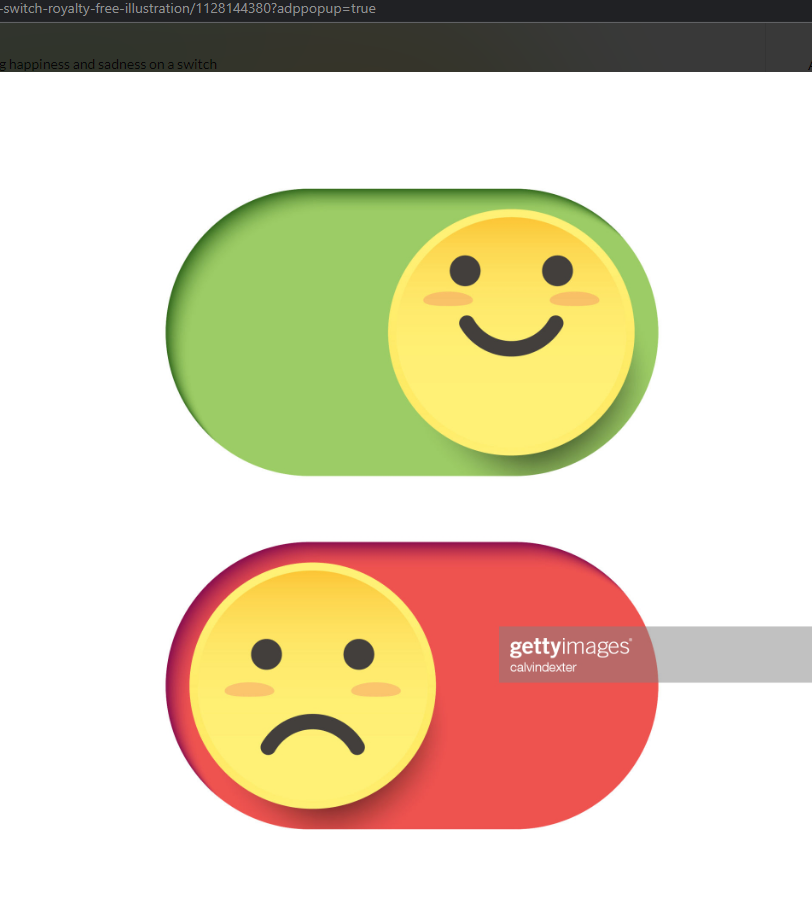
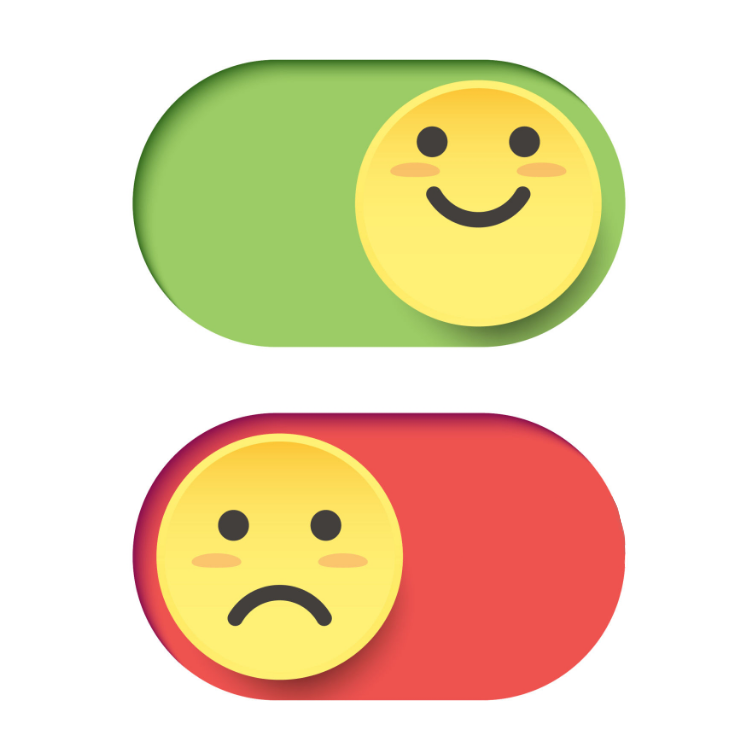
Add new project & images

diff --git a/index.html b/index.html
@@ -124,7 +124,7 @@
                 <h3>Applied Science Research Assistant</h3>
                 <h4><a href="https://www.fgdc.gov/">Federal Geographic Data Committee</h4></a>
                 <p>
-                    I conduct research and development using Python and ArcGIS to support FGDC work in the development of complete tests, assessments and evaluation, development and deployment of models, tools, applications, services, and technologies to advance the use of geospatial information for the nation.
+                    I conduct research and development using Python and ArcGIS to support FGDC work in the development tools and applications to advance the use of geospatial information for the nation.
                 </p>
             </div>
         </div>
@@ -140,7 +140,7 @@
             <p>
                 I have taken courses in data structures, software construction, computer organization, C++, 
                 and linear algebra.
-                I am a software developer for Design Create Solar.
+                I am a software developer for Design Create Solar, a solar club on campus.
             </p>
         </div>
         <!-- End .education-block -->
@@ -153,7 +153,23 @@
             <div class="row">
                 <div class="project shadow-large">
                     <div class="project-image">
-                        <img src="images/project.jpg" width="300" height="300"/>
+                        <img src="images/echoLocationMap.png" width="300" height="300"/>
+                    </div>
+                    <!-- End .project-image -->
+                    <div class="project-info">
+                        <h3>Echo Location</h3>
+                        <p>
+                            <b>Client-side web application that manages and displays lost/found items from students within campus
+                            </b> <br/>
+                            Skills used: JavaScript, React, MongoDB, Firebase <br/> Tools: Mapbox GL, Amazon S3, Google Maps Geolocation API
+                        </p>
+                        <a href="https://github.com/echo-location/app">View Code</a>                           
+                    </div>
+                    <!-- End .project-info -->
+                </div>
+                <div class="project shadow-large">
+                    <div class="project-image">
+                        <img src="images/positive.png" width="300" height="300"/>
                     </div>
                     <!-- End .project-image -->
                     <div class="project-info">
@@ -197,7 +213,7 @@
                     <div class="project-info">
                         <h3>The Merge</h3>
                         <p>
-                            <b>A web app allowing users to easily find esports viewership and player & team data for various games using the 
+                            <b>Web app allowing users to easily find esports viewership and player & team data for various games using the 
                                 Steam and Liquipedia APIs.</b> <br/>
                             Skills used: JavaScript, React, Material UI, Python, Flask
                         </p>
@@ -220,10 +236,12 @@
             <li>React</li>
             <li>PyTorch</li>
             <li>SQL</li>
+            <li>MongoDB</li>
             <li>C++</li>
             <li>AWS</li>
             <li>Git</li>
             <li>Bash</li>
+
         </ul>
     </div>
     <!-- End #skills -->
